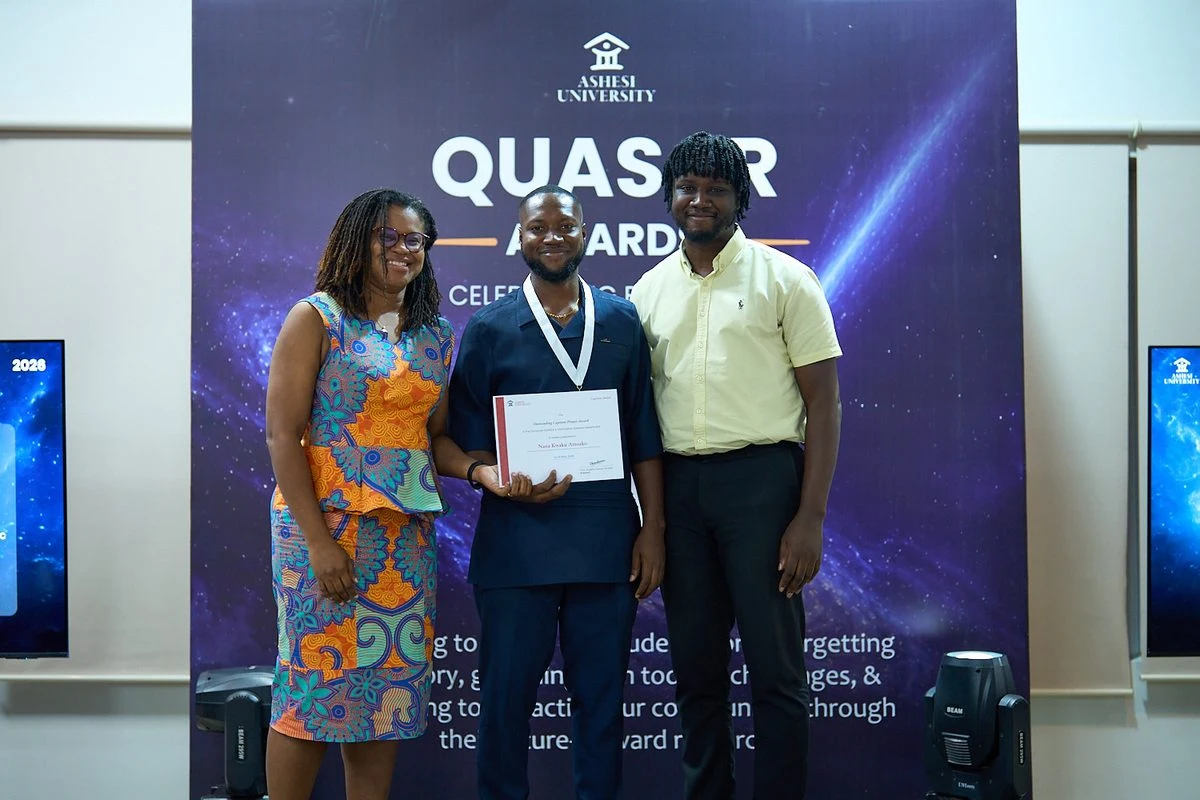
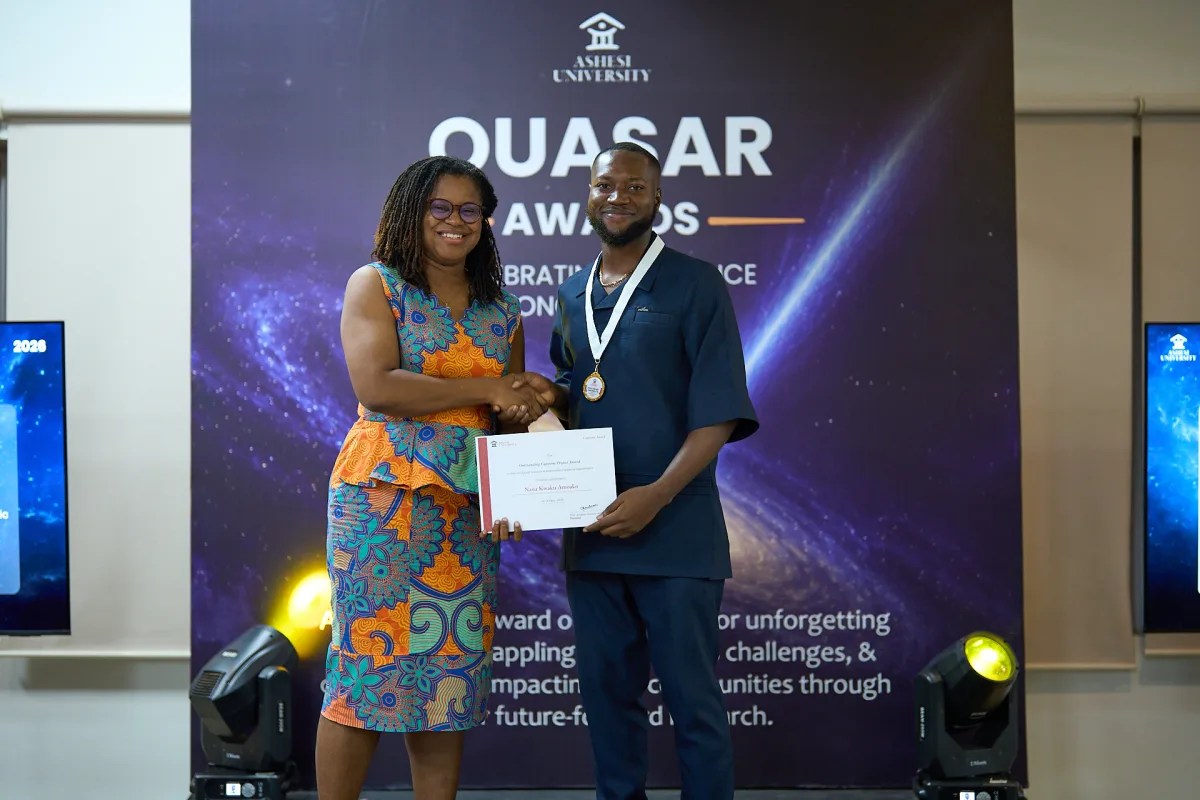
award section: photo with HOD at the 2026 Quasar Awards

diff --git a/frontend/src/app/page.tsx b/frontend/src/app/page.tsx
@@ -148,7 +148,7 @@ export default function LandingPage() {
           <h2>How the work has been received.</h2>
           <div className="ip-recog-grid">
             <figure className="ip-recog-card ip-recog-award">
-              <Image src="/landing/quasar_award.webp" alt="Nana Kwaku Amoako receiving the Outstanding Capstone Project award at Ashesi University's 2026 Quasar Awards" width={1200} height={800} />
+              <Image src="/landing/quasar_award.webp" alt="Nana Kwaku Amoako, wearing a medal and holding the Outstanding Capstone Project certificate, shakes hands with the head of the Computer Science and Information Systems department at Ashesi University's 2026 Quasar Awards" width={1200} height={800} />
               <figcaption>
                 <span className="ip-pill"><Trophy size={14} weight="fill" /> Award</span>
                 <h3>Outstanding Capstone Project, Computer Science &amp; Information Systems</h3>

diff --git a/frontend/src/app/research/Reception.tsx b/frontend/src/app/research/Reception.tsx
@@ -25,7 +25,7 @@ export default function Reception() {
 
         <div className="rc-hero">
           <figure className="rc-award">
-            <Image src="/landing/quasar_award.webp" alt="Nana Kwaku Amoako receiving the Outstanding Capstone Project award at Ashesi University's 2026 Quasar Awards" width={1200} height={800} />
+            <Image src="/landing/quasar_award.webp" alt="Nana Kwaku Amoako, wearing a medal and holding the Outstanding Capstone Project certificate, shakes hands with the head of the Computer Science and Information Systems department at Ashesi University's 2026 Quasar Awards" width={1200} height={800} />
             <figcaption>
               <span className="rc-pill"><Trophy size={14} weight="fill" /> May 2026</span>
               <h3>Outstanding Capstone Project, Computer Science &amp; Information Systems</h3>
